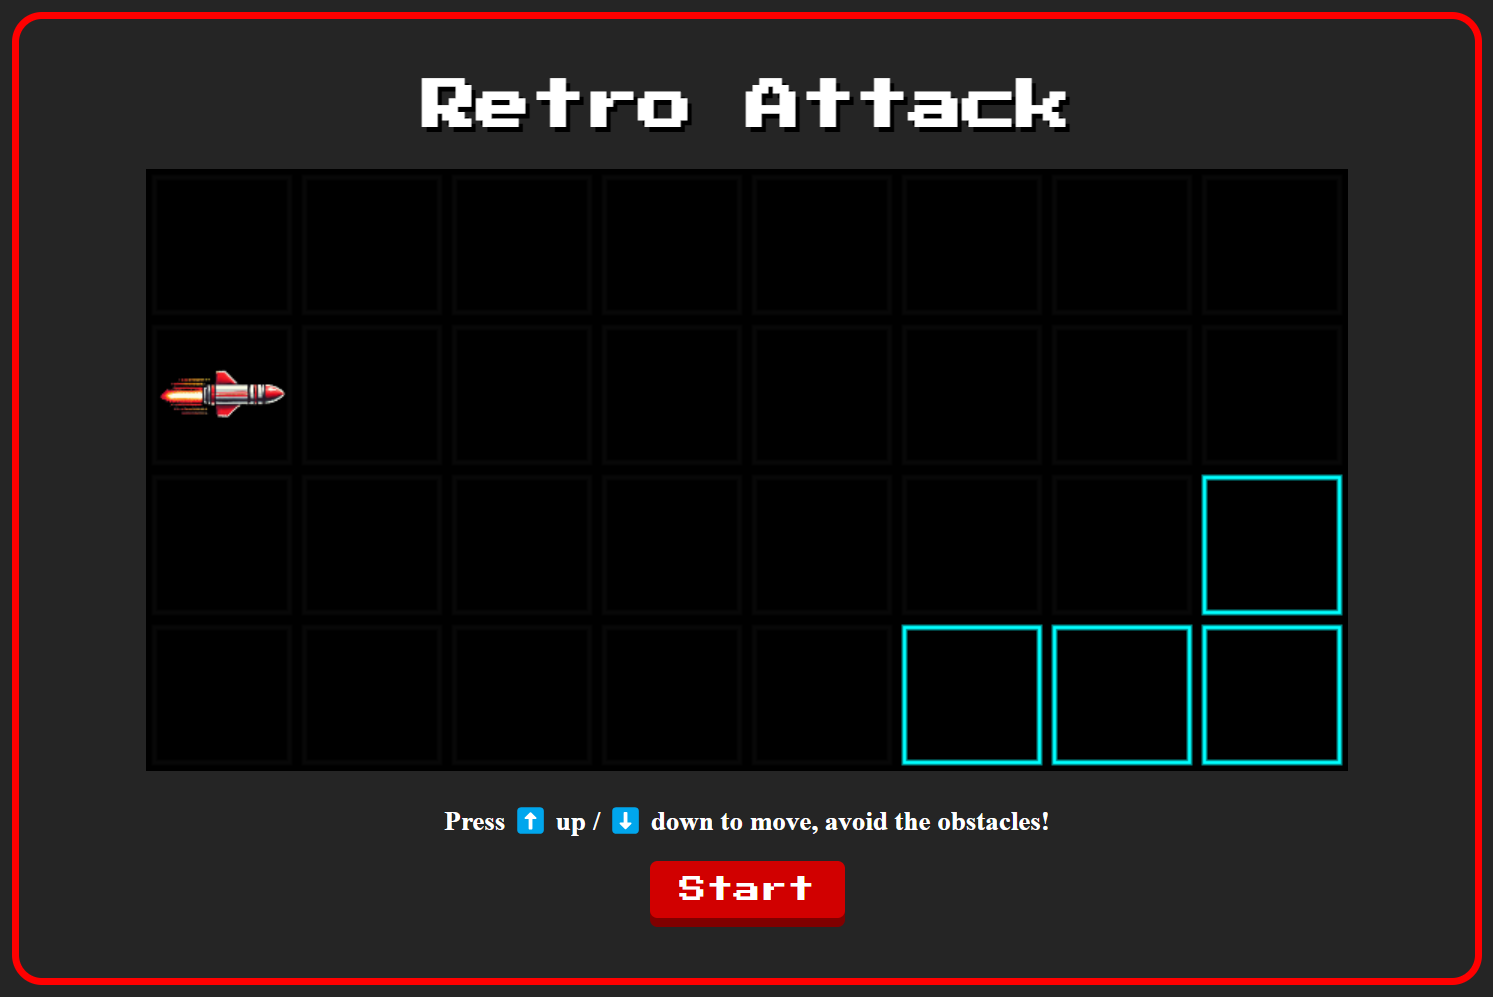
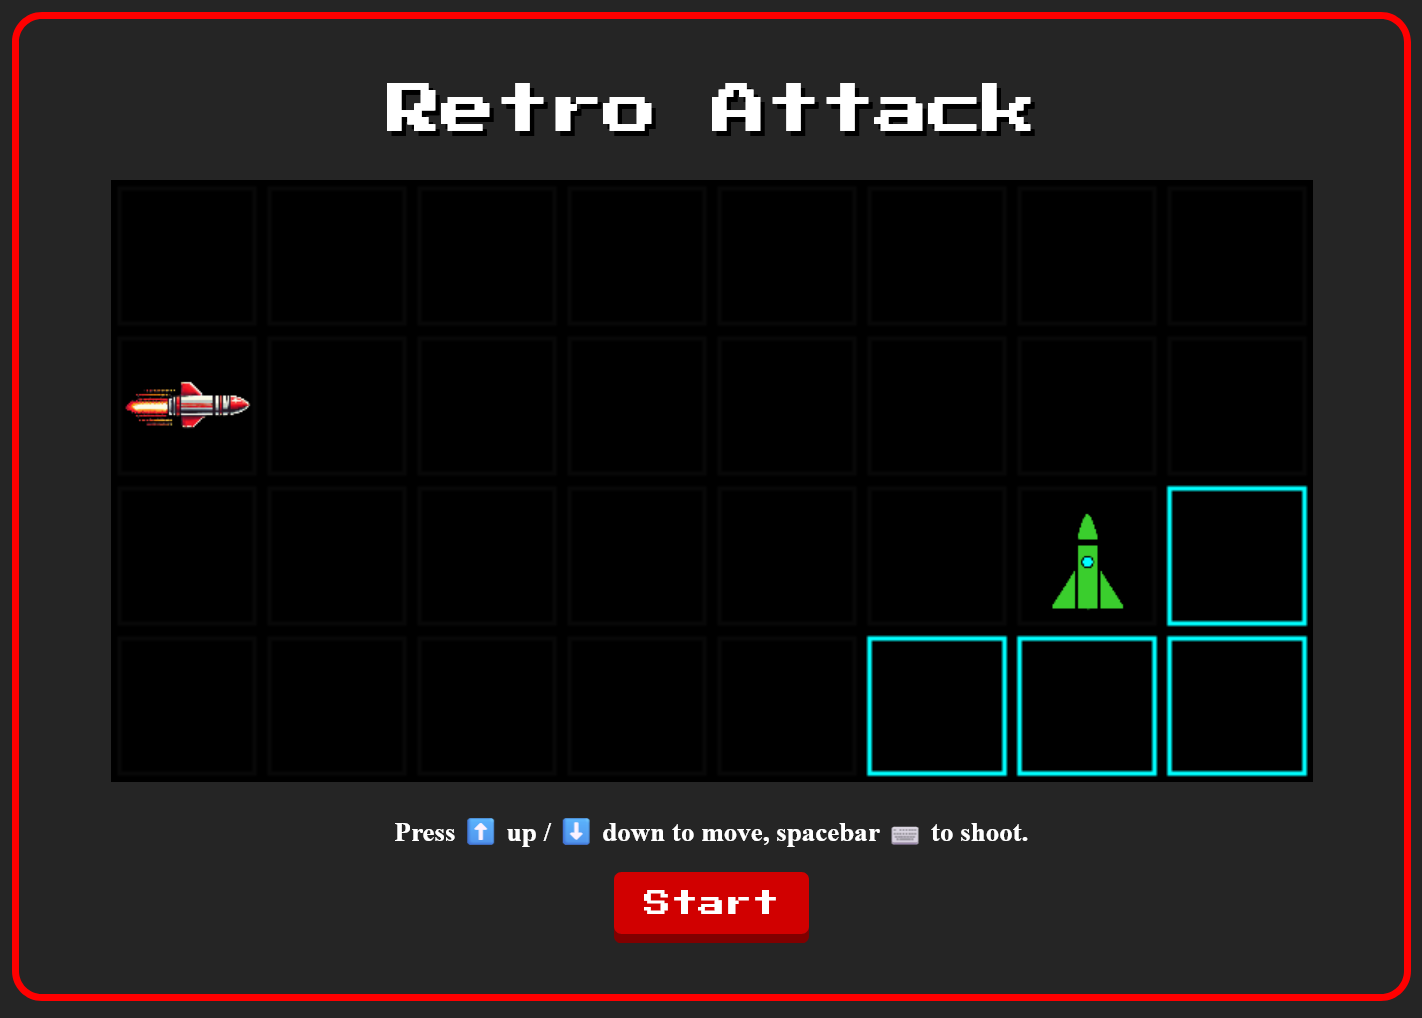
feat: add rocket enemy shooting

Changed region(s): [[0.0619, 0.0622, 0.9283, 0.7773], [0.0, 0.9639, 0.9902, 0.995], [0.2785, 0.8084, 0.7117, 0.9328]]

diff --git a/game.js b/game.js
@@ -1,5 +1,6 @@
 import init, { Game } from './pkg/game_wasm.js';
 import spaceshipImageSrc from './images/spaceship.png';
+import rocketImageSrc from './images/rocket.png';
 
 async function initGame() {
     await init();
@@ -17,6 +18,10 @@ async function initGame() {
     // Load spaceship image
     const spaceshipImage = new Image();
     spaceshipImage.src = spaceshipImageSrc;
+
+    // Load rocket image
+    const rocketImage = new Image();
+    rocketImage.src = rocketImageSrc;
 
     function renderMap() {
         const mapData = game.get_visible_map();
@@ -36,7 +41,21 @@ async function initGame() {
                 ctx.lineWidth = 3;
                 ctx.strokeStyle = tileType === 1 ? "#00FFFF" : "#080808";
                 ctx.strokeRect(x * tileSize + padding, y * tileSize + padding, tileSize - 2 * padding, tileSize - 2 * padding);
+
+                if (tileType === 2) {
+                    renderRocket(x, y);
+                }
             }
+        }
+    }
+
+    function renderRocket(x, y) {
+        if (rocketImage.complete) {
+            ctx.drawImage(rocketImage, x * tileSize, y * tileSize, tileSize, tileSize);
+        } else {
+            // Fallback to a colored rectangle if the image hasn't loaded
+            ctx.fillStyle = "yellow";
+            ctx.fillRect(x * tileSize, y * tileSize, tileSize, tileSize);
         }
     }
 
@@ -51,9 +70,26 @@ async function initGame() {
         }
     }
 
+    function renderBullets() {
+        const bullets = game.bullets();
+        const bulletRadius = 5; // Radius of the bullet circle
+        const scroll_x = game.get_visible_x(); // Get the current scroll_x value
+
+        bullets.forEach(bullet => {
+            ctx.fillStyle = 'cyan';
+            // Calculate the center position of the tile, adjusting for scroll_x
+            const centerX = (bullet.x - scroll_x) * tileSize + (tileSize / 2);
+            const centerY = bullet.y * tileSize + (tileSize / 2);
+            ctx.beginPath();
+            ctx.arc(centerX, centerY, bulletRadius, 0, Math.PI * 2);
+            ctx.fill();
+        });
+    }
+
     let keys = {
         "ArrowUp": 0,
-        "ArrowDown": 0
+        "ArrowDown": 0,
+        " ": 0  // Add Space key
     };
 
     window.addEventListener("keydown", (e) => {
@@ -77,12 +113,17 @@ async function initGame() {
             game.move_down();
             keys["ArrowDown"] = 2;
         }
+        if (keys[" "] === 1) {
+            game.fire();
+            keys[" "] = 2;  // Prevent continuous firing while holding the key
+        }
     }
 
     function gameLoop() {
         ctx.clearRect(0, 0, canvas.width, canvas.height);
         renderMap();
         renderPlayer();
+        renderBullets();
         if (gameStarted) {
             handleInput();
         }
@@ -117,7 +158,7 @@ async function initGame() {
             game = new Game(); // Reset the game
             game.start();
             gameStarted = true;
-            updateInterval = setInterval(updateGame, 750);
+            updateInterval = setInterval(updateGame, 375);
             startButton.disabled = true;
             
             // Reset game status

diff --git a/index.html b/index.html
@@ -73,7 +73,7 @@
     <h1>Retro Attack</h1>
     
     <canvas id="gameCanvas" width="800" height="400"></canvas>
-    <div id="gameStatus">Press ⬆ up / ⬇ down to move, avoid the obstacles!</div>
+    <div id="gameStatus">Press ⬆ up / ⬇ down to move, spacebar ⌨ to shoot.</div>
     <button id="startButton">Start</button>
     
     <script type="module" src="bundle.js"></script>

diff --git a/webpack.config.js b/webpack.config.js
@@ -39,6 +39,10 @@ module.exports = {
       extraArgs: '--target web',
       outDir: "pkg",
       outName: "game_wasm",
+      watchDirectories: [
+        path.resolve(__dirname, "src"),
+        path.resolve(__dirname, "levels"),
+      ],
     }),
   ],
   devServer: {

diff --git a/src/lib.rs b/src/lib.rs
@@ -1,5 +1,6 @@
 use wasm_bindgen::prelude::*;
 use js_sys;
+use web_sys::console;  // Add this import at the top of the file
 
 const LEVEL1: &str = include_str!("../levels/level1.txt");
 
@@ -28,6 +29,14 @@ pub struct Game {
     ended: bool,  // New field
     started: bool,  // New field
     won: bool,  // New field
+    bullets: Vec<Bullet>,  // New field to track bullets
+    time: u32,  // Changed to u32 for integer frame count
+}
+
+#[wasm_bindgen]
+pub struct Bullet {
+    x: u8,
+    y: u8,
 }
 
 #[wasm_bindgen]
@@ -42,6 +51,8 @@ impl Game {
             ended: false,  // Initialize ended flag
             started: false,  // Initialize started flag
             won: false,  // Initialize won flag
+            bullets: Vec::new(),  // Initialize bullets vector
+            time: 0,  // Initialize time to 0 frames
         }
     }
 
@@ -49,8 +60,9 @@ impl Game {
         map_str.lines()
             .map(|line| {
                 line.chars().map(|ch| match ch {
-                    '#' => 1,
                     '.' => 0,
+                    '#' => 1,
+                    'r' => 2,
                     _ => panic!("Invalid character in map file"),
                 }).collect()
             })
@@ -62,7 +74,7 @@ impl Game {
         let player_y = self.player.y as usize;
         
         if player_y < self.height() && player_x < self.width() {
-            self.map[player_y][player_x] == 1  // 1 represents '#'
+            self.map[player_y][player_x] > 0  // 0 represents empty space
         } else {
             false  // Consider out-of-bounds as no collision
         }
@@ -73,8 +85,45 @@ impl Game {
             return;  // Don't update if the game hasn't started or has ended
         }
 
-        // Increase scroll_x
-        self.scroll_x += 1;
+        // Increment time by 1 frame
+        self.time += 1;
+
+        // Increase scroll_x only when time is even
+        if self.time % 2 == 0 {
+            self.scroll_x += 1;
+        }
+
+        self.bullets.iter_mut().for_each(|bullet| bullet.x += 1);
+        
+        // Check for bullet collisions with rockets
+        let mut bullets_to_remove = Vec::new();
+        for (index, bullet) in self.bullets.iter().enumerate() {
+            let bullet_x = bullet.x as usize;
+            let bullet_y = bullet.y as usize;
+            
+            // Check if the bullet is within map bounds
+            if bullet_y < self.height() && bullet_x < self.width() {
+                // Check if the bullet hit a rocket (tile type 2)
+                if self.map[bullet_y][bullet_x] == 2 {
+                    // Clear the rocket by setting the tile to empty (0)
+                    self.map[bullet_y][bullet_x] = 0;
+                    // Mark this bullet for removal
+                    bullets_to_remove.push(index);
+                    // Optionally, you can update the score here
+                    // self.update_score(10); // Add 10 points for destroying a rocket
+                }
+            }
+        }
+
+        // Remove the bullets that hit rockets
+        for &index in bullets_to_remove.iter().rev() {
+            self.bullets.remove(index);
+        }
+
+        let width = self.width() as u8;
+        self.bullets.retain(|bullet| {
+            bullet.x < width && self.map[bullet.y as usize][bullet.x as usize] != 1
+        });
 
         if self.check_collision() {
             self.ended = true;
@@ -170,6 +219,11 @@ impl Game {
         4
     }
 
+    // New method to expose scroll_x
+    pub fn get_visible_x(&self) -> u8 {
+        self.scroll_x
+    }
+
     // New method to start the game
     pub fn start(&mut self) {
         self.started = true;
@@ -188,5 +242,37 @@ impl Game {
     // New method to check if the game has been won
     pub fn is_won(&self) -> bool {
         self.won
+    }
+
+    // New method to fire a bullet
+    pub fn fire(&mut self) {
+        if self.started && !self.ended {
+            let bullet = Bullet {
+                x: self.scroll_x + 1,  // Start bullet one position ahead of the player
+                y: self.player.y,
+            };
+            self.bullets.push(bullet);
+            
+            // Add this line to log the firing event
+            console::log_1(&"Bullet fired!".into());
+        }
+    }
+
+    pub fn bullets(&self) -> js_sys::Array {
+        self.bullets.iter().map(|bullet| {
+            let obj = js_sys::Object::new();
+            js_sys::Reflect::set(&obj, &"x".into(), &bullet.x.into()).unwrap();
+            js_sys::Reflect::set(&obj, &"y".into(), &bullet.y.into()).unwrap();
+            obj
+        }).collect::<js_sys::Array>()
+    }
+
+    pub fn num_bullets(&self) -> usize {
+        self.bullets.len()
+    }
+
+    // Updated method to get the current game time in frames
+    pub fn get_time(&self) -> u32 {
+        self.time
     }
 }
